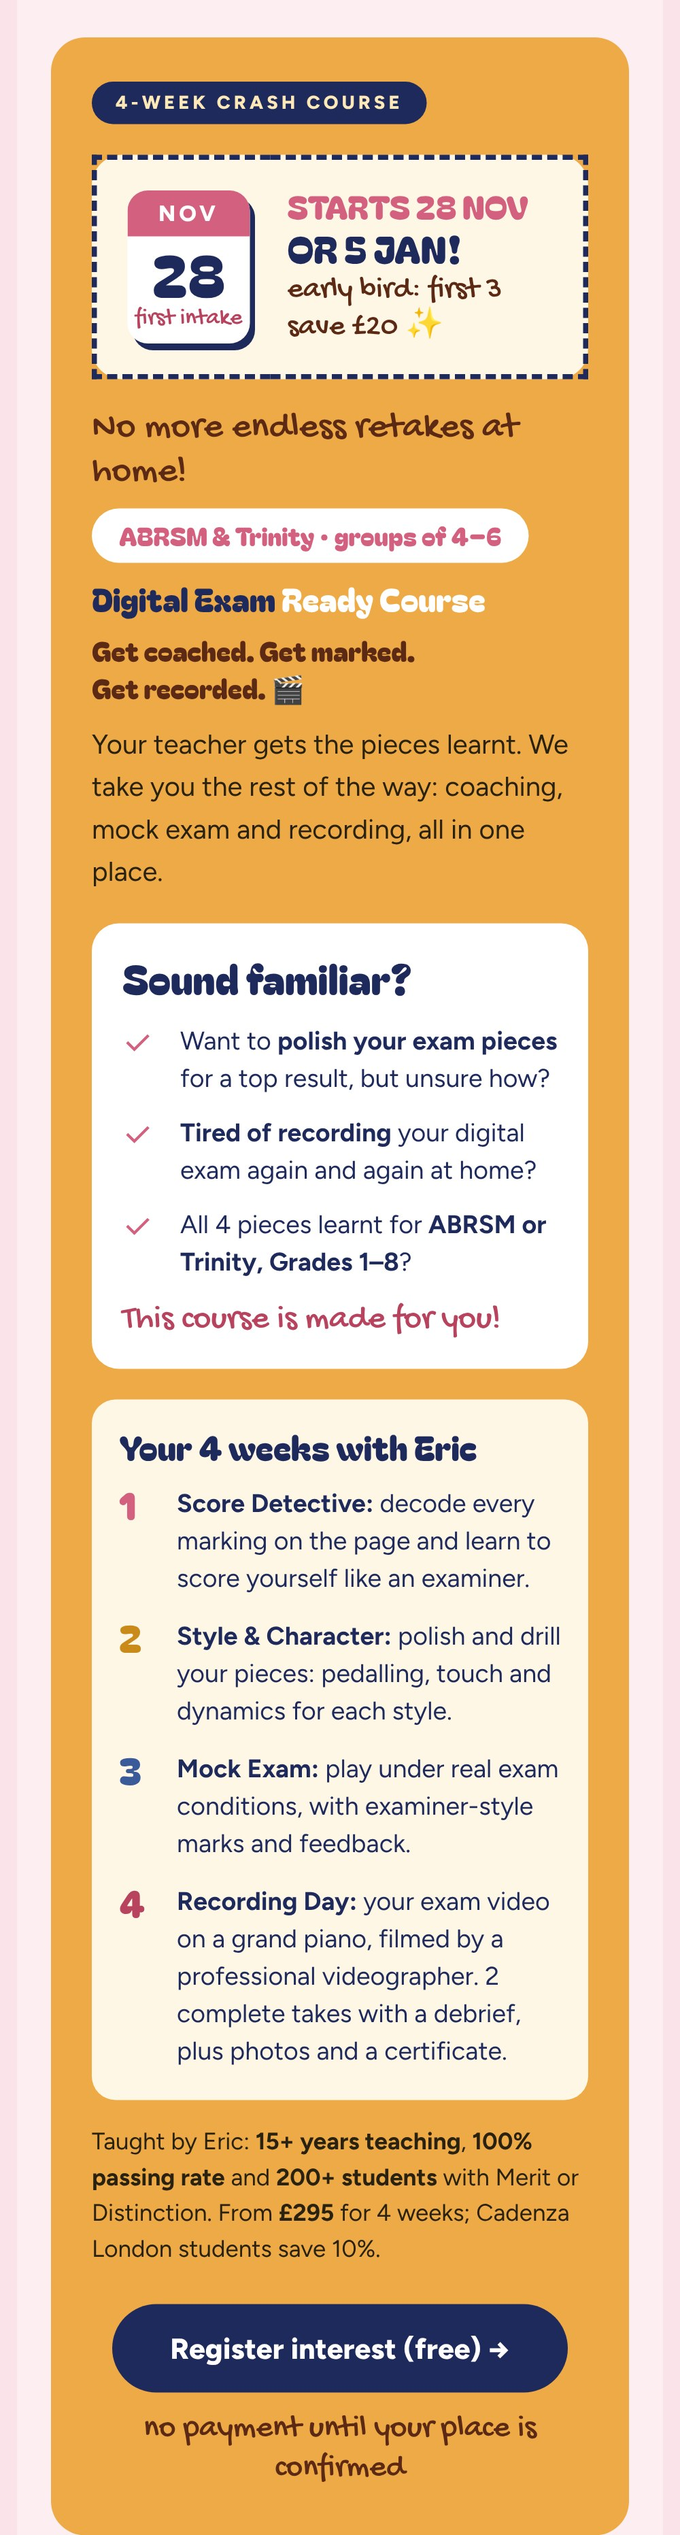
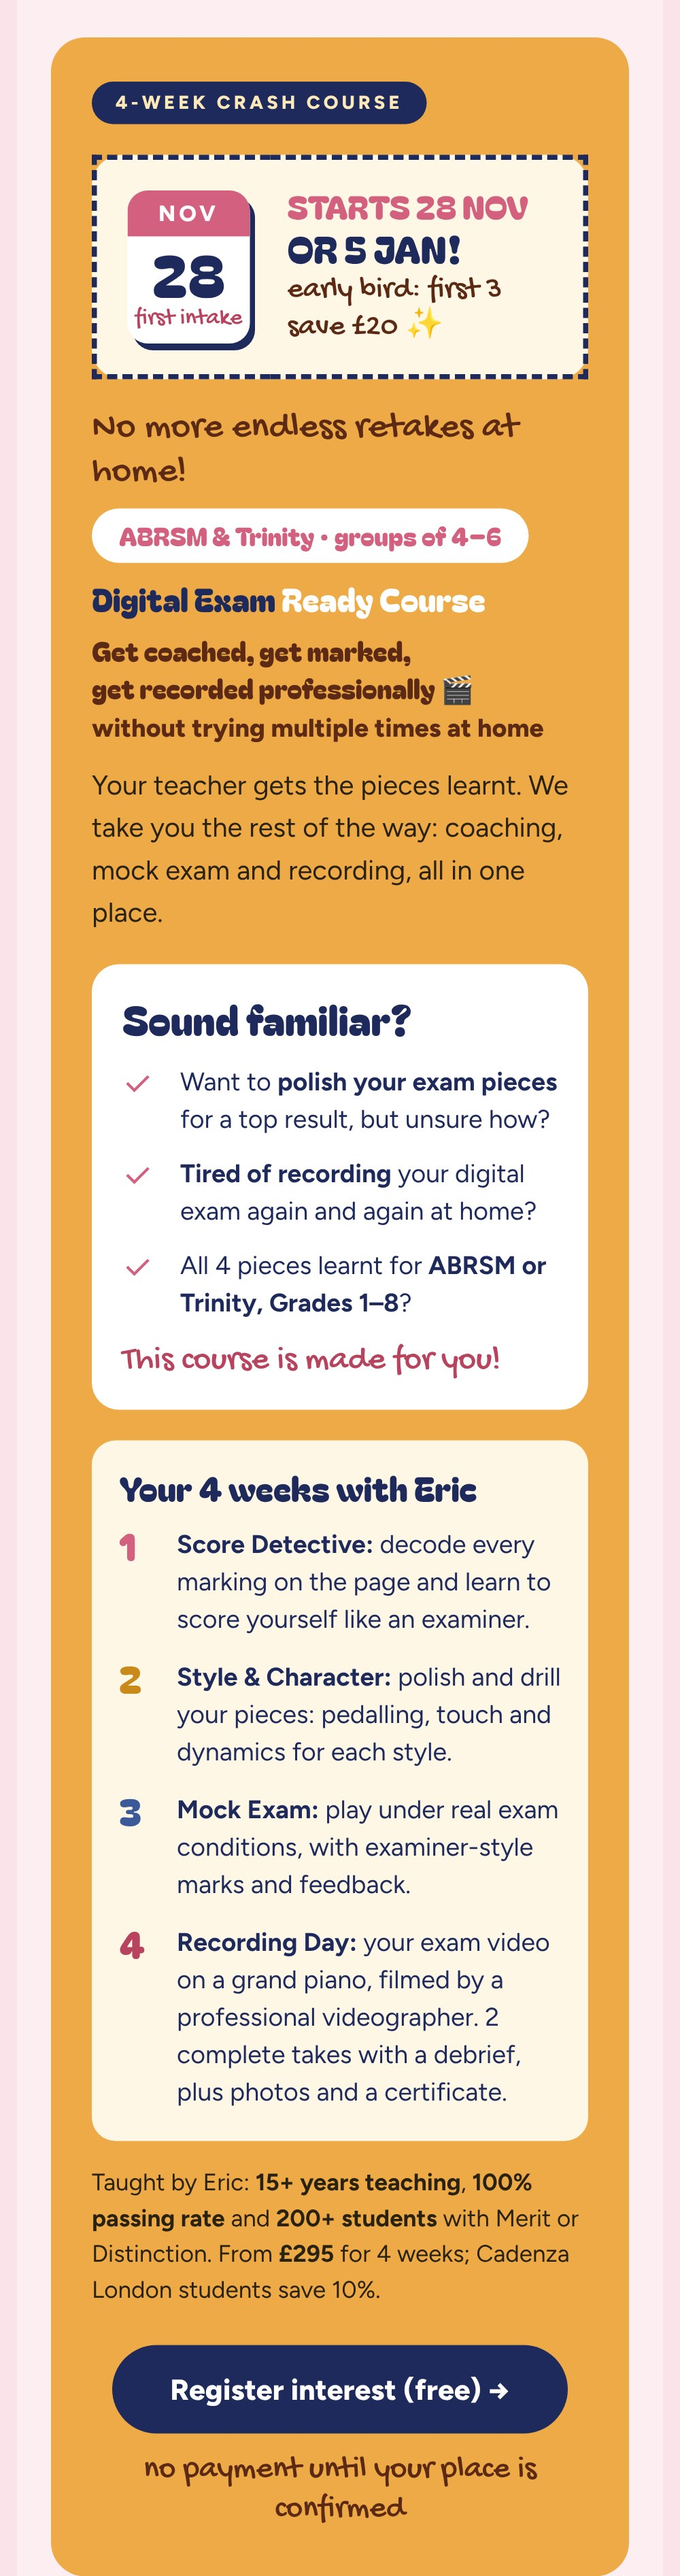
Newsletter Nov 2026: new exam course tagline
Claude-Session: https://claude.ai/code/session_015bt2nYSBxtEEo5rA4rXfs1

Changed region(s): [[0.124, 0.0311, 0.868, 0.9649], [0.155, 0.6847, 0.217, 0.7159], [0.186, 0.747, 0.217, 0.7781]]

diff --git a/newsletter-nov2026/email/index.html b/newsletter-nov2026/email/index.html
@@ -26,22 +26,22 @@ Early access: our new Sight-Reading Club is FREE until 31 Dec, the Digital Exam 
 
 <table role="presentation" width="480" cellpadding="0" cellspacing="0" border="0" style="width:100%;max-width:480px;">
   <tr><td style="padding:0;line-height:0;font-size:0;">
-    <a href="https://cadenza-london.com/newsletter-nov2026/" target="_blank"><img src="https://cadenza-london.com/newsletter-nov2026/email/part1.jpg?v=11" width="480" alt="Cadenza London Music Academy. November 2026 Newsletter. Hello hello! Big news is here, and you hear it first. We've got so much going on at Cadenza: as our students and mailing list VIPs, you get early access to two brand-new workshops before anyone else!" style="display:block;width:100%;max-width:480px;height:auto;"></a>
+    <a href="https://cadenza-london.com/newsletter-nov2026/" target="_blank"><img src="https://cadenza-london.com/newsletter-nov2026/email/part1.jpg?v=12" width="480" alt="Cadenza London Music Academy. November 2026 Newsletter. Hello hello! Big news is here, and you hear it first. We've got so much going on at Cadenza: as our students and mailing list VIPs, you get early access to two brand-new workshops before anyone else!" style="display:block;width:100%;max-width:480px;height:auto;"></a>
   </td></tr>
   <tr><td style="padding:0;line-height:0;font-size:0;">
-    <a href="https://cadenza-london.com/sight-reading-club#book" target="_blank"><img src="https://cadenza-london.com/newsletter-nov2026/email/part2.jpg?v=11" width="480" alt="New launch: Sight-Reading Club starts Tuesday 3 November, free every session until 31 December. Weekly on Zoom, Tuesdays 6:00–6:45pm, 8 players max. Beginner Grades 1–3, Intermediate Grades 4–6. From January £8/£10 a session or monthly plans from £15; Cadenza students get 1 free session a month. Tap to book your free place." style="display:block;width:100%;max-width:480px;height:auto;"></a>
+    <a href="https://cadenza-london.com/sight-reading-club#book" target="_blank"><img src="https://cadenza-london.com/newsletter-nov2026/email/part2.jpg?v=12" width="480" alt="New launch: Sight-Reading Club starts Tuesday 3 November, free every session until 31 December. Weekly on Zoom, Tuesdays 6:00–6:45pm, 8 players max. Beginner Grades 1–3, Intermediate Grades 4–6. From January £8/£10 a session or monthly plans from £15; Cadenza students get 1 free session a month. Tap to book your free place." style="display:block;width:100%;max-width:480px;height:auto;"></a>
   </td></tr>
   <tr><td style="padding:0;line-height:0;font-size:0;">
-    <a href="https://cadenza-london.com/digital-exam-ready/" target="_blank"><img src="https://cadenza-london.com/newsletter-nov2026/email/part3.jpg?v=11" width="480" alt="Digital Exam Ready Course. Want to polish your exam pieces for a top result? Tired of recording your digital exam again and again at home? A 4-week crash course for ABRSM and Trinity digital exams, Grades 1 to 8, groups of 4 to 6. Starts 28 November or 5 January; early bird, first 3 save £20. Week 1 Score Detective, Week 2 Style and Character, Week 3 Mock Exam, Week 4 Recording Day on a grand piano with a professional videographer. Taught by Eric: 15+ years, 100% passing rate. From £295, Cadenza students save 10%. Tap to register interest for free." style="display:block;width:100%;max-width:480px;height:auto;"></a>
+    <a href="https://cadenza-london.com/digital-exam-ready/" target="_blank"><img src="https://cadenza-london.com/newsletter-nov2026/email/part3.jpg?v=12" width="480" alt="Digital Exam Ready Course. Want to polish your exam pieces for a top result? Tired of recording your digital exam again and again at home? A 4-week crash course for ABRSM and Trinity digital exams, Grades 1 to 8, groups of 4 to 6. Starts 28 November or 5 January; early bird, first 3 save £20. Week 1 Score Detective, Week 2 Style and Character, Week 3 Mock Exam, Week 4 Recording Day on a grand piano with a professional videographer. Taught by Eric: 15+ years, 100% passing rate. From £295, Cadenza students save 10%. Tap to register interest for free." style="display:block;width:100%;max-width:480px;height:auto;"></a>
   </td></tr>
   <tr><td style="padding:0;line-height:0;font-size:0;">
-    <a href="https://cadenza-questionnaire-2027.netlify.app" target="_blank"><img src="https://cadenza-london.com/newsletter-nov2026/email/part4.jpg?v=11" width="480" alt="Photos from our Christmas concert 2025. Missed our concert last year end? We're now planning a concert or competition in January or February 2027. Tap to vote for our 2027 event: your opinion matters!" style="display:block;width:100%;max-width:480px;height:auto;"></a>
+    <a href="https://cadenza-questionnaire-2027.netlify.app" target="_blank"><img src="https://cadenza-london.com/newsletter-nov2026/email/part4.jpg?v=12" width="480" alt="Photos from our Christmas concert 2025. Missed our concert last year end? We're now planning a concert or competition in January or February 2027. Tap to vote for our 2027 event: your opinion matters!" style="display:block;width:100%;max-width:480px;height:auto;"></a>
   </td></tr>
   <tr><td style="padding:0;line-height:0;font-size:0;">
-    <a href="mailto:music@cadenza-london.com" target="_blank"><img src="https://cadenza-london.com/newsletter-nov2026/email/part5.jpg?v=11" width="480" alt="Looking for photos of your child at the concert? If you can't find them in the Google Drive folder, email music@cadenza-london.com and we'll send them over. Questions? Just reply to this email. Eric and Jessica x" style="display:block;width:100%;max-width:480px;height:auto;"></a>
+    <a href="mailto:music@cadenza-london.com" target="_blank"><img src="https://cadenza-london.com/newsletter-nov2026/email/part5.jpg?v=12" width="480" alt="Looking for photos of your child at the concert? If you can't find them in the Google Drive folder, email music@cadenza-london.com and we'll send them over. Questions? Just reply to this email. Eric and Jessica x" style="display:block;width:100%;max-width:480px;height:auto;"></a>
   </td></tr>
   <tr><td style="padding:0;line-height:0;font-size:0;">
-    <a href="https://cadenza-london.com" target="_blank"><img src="https://cadenza-london.com/newsletter-nov2026/email/part6.jpg?v=11" width="480" alt="Cadenza London Music Academy, Colindale, North London and online. cadenza-london.com, @cadenza.london, music@cadenza-london.com" style="display:block;width:100%;max-width:480px;height:auto;"></a>
+    <a href="https://cadenza-london.com" target="_blank"><img src="https://cadenza-london.com/newsletter-nov2026/email/part6.jpg?v=12" width="480" alt="Cadenza London Music Academy, Colindale, North London and online. cadenza-london.com, @cadenza.london, music@cadenza-london.com" style="display:block;width:100%;max-width:480px;height:auto;"></a>
   </td></tr>
   <tr><td align="center" style="padding:14px 16px 24px;font-family:Arial,Helvetica,sans-serif;font-size:12px;line-height:18px;color:#8a7f86;">
     Can't see the pictures? <a href="https://cadenza-london.com/newsletter-nov2026/" target="_blank" style="color:#8a7f86;text-decoration:underline;">View this newsletter online</a>.<br>

diff --git a/newsletter-nov2026/index.html b/newsletter-nov2026/index.html
@@ -219,7 +219,7 @@ Early access: our new Sight-Reading Club is FREE until 31 Dec, and the Digital E
               <td style="background:#ffffff;border-radius:30px;padding:6px 16px;font-family:'Bagel Fat One','Arial Rounded MT Bold','Arial Black',Arial,sans-serif;font-size:15px;line-height:20px;color:#d4607f;white-space:nowrap;">ABRSM &amp; Trinity · groups of 4–6</td>
             </tr></table>
             <div class="fat examone" style="font-family:'Bagel Fat One','Arial Rounded MT Bold','Arial Black',Arial,sans-serif;font-size:34px;line-height:40px;color:#1f2a5c;margin-top:8px;">Digital Exam <span style="color:#ffffff;">Ready Course</span></div>
-            <div style="font-family:'Bagel Fat One','Arial Rounded MT Bold','Arial Black',Arial,sans-serif;font-size:16px;line-height:22px;color:#5c2a14;margin-top:6px;">Get coached. Get marked.<br>Get recorded. 🎬</div>
+            <div style="font-family:'Bagel Fat One','Arial Rounded MT Bold','Arial Black',Arial,sans-serif;font-size:16px;line-height:22px;color:#5c2a14;margin-top:6px;">Get coached, get marked,<br>get recorded professionally 🎬<br><span style="font-family:'Figtree',Arial,sans-serif;font-weight:800;font-size:15px;">without trying multiple times at home</span></div>
             <p class="body" style="font-family:'Figtree',Arial,sans-serif;font-size:16px;line-height:25px;color:#2a2210;margin:10px 0 0;">Your teacher gets the pieces learnt. We take you the rest of the way: coaching, mock exam and recording, all in one place.</p>
             <!-- Is it right for you? -->
             <table role="presentation" width="100%" cellpadding="0" cellspacing="0" style="margin-top:18px;background:#ffffff;border-radius:16px;">
